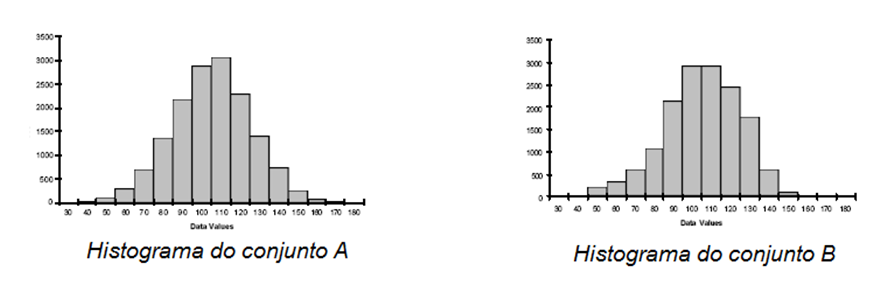
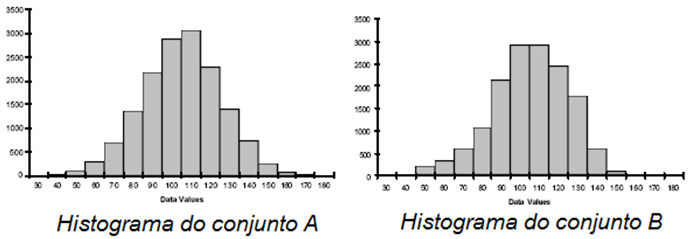
atualização da análise exploratório -slides

diff --git a/slides/aula-geo-SCSMAA-2024.html b/slides/aula-geo-SCSMAA-2024.html
@@ -5,7 +5,7 @@
     <meta charset="utf-8" />
     <meta name="author" content="Alan Rodrigo Panosso alan.panosso@unesp.br" />
     <meta name="date" content="2024-05-12" />
-    <script src="libs/header-attrs-2.28/header-attrs.js"></script>
+    <script src="libs/header-attrs-2.27/header-attrs.js"></script>
     <link href="libs/remark-css-0.0.1/default.css" rel="stylesheet" />
     <link href="libs/remark-css-0.0.1/default-fonts.css" rel="stylesheet" />
   </head>
@@ -46,9 +46,7 @@ class: center, middle, inverse, title-slide
 
 A Geoestatística é uma ferramenta na análise espacial de dados, desempenhando um importante papel na agricultura moderna. Ela combina princípios estatísticos com informações geográficas para fornecer uma compreensão mais profunda da variabilidade espacial de várias variáveis ligadas ao solo, às plantas e mesmo à atmosfera. 
 
-É definida como um ramo da estatística aplicada que lida com a análise e interpretação de dados espaciais. Ela permite a modelagem da variabilidade espacial de fenômenos, descrevendo padrões espaciais, correlações e distribuições geográficas. No contexto agronômico, é uma ferramenta para compreender a heterogeneidade do solo e outros fatores que influenciam nos mais diversos fenômenos associados.
-
-Os métodos da estatística clássica são muito utilizados em Ciências da Terra, principalmente em Agronomia:
+É definida como um ramo da estatística aplicada que lida com a análise e interpretação de dados espaciais. Ela permite a modelagem da variabilidade espacial de fenômenos, descrevendo padrões espaciais, correlações e distribuições geográficas. No contexto agronômico, é uma ferramenta para compreender a heterogeneidade do solo e outros fatores que influenciam nos mais diversos processos associados.
 
 ---
 
@@ -68,7 +66,9 @@ Os métodos da estatística clássica são muito utilizados em Ciências da Terr
 
 ---
 
-### As Hipóteses básicas nas quais a maioria dos métodos da estatística clássica se baseiam são: 
+### Estatística Clássica 
+
+As hipóteses básicas nas quais a maioria dos métodos da estatística clássica se baseiam são: 
 
   + Assumir uma distribuição de frequência;  
 
@@ -76,7 +76,7 @@ Os métodos da estatística clássica são muito utilizados em Ciências da Terr
 
   + Os erros são independentes.  
 
-Considere os dois conjuntos de dados `\(A\)` e `\(B\)` e suas respectivas estatísticas básicas.
+Como exemplo, considere os dois conjuntos de dados `\(A\)` e `\(B\)` e suas respectivas estatísticas básicas.
 
 Estatística |	A	| B 
 :---| :---: | :---:
@@ -93,8 +93,21 @@ Percentil  90	| `\(125,61\)`	| `\(124,72\)`
 
 De acordo com estas evidências os dois conjuntos de dados são bastante semelhantes.
 
----
 
+Estatística |	A	| B 
+:---| :---: | :---:
+n	| `\(15251\)`	| `\(15251\)`
+média | 	`\(100,0\)`	| `\(100,0\)`
+desvio padrão	| `\(20,0\)`	| `\(20,0\)`
+mediana	| `\(100,35\)`	| `\(100,92\)`
+Percentil 10	| `\(73,89\)`	| `\(73,95\)`
+Percentil  90	| `\(125,61\)`	| `\(124,72\)`
+---
+class: center, middel
+![](../img/img-02a.png)
+
+![](../img/img-02b.png)
+---
 ![](../img/img-02.png)
 
 Comparação de seus respectivos gráficos de contornos (padrões espaciais).
@@ -118,25 +131,34 @@ Comparação de seus respectivos gráficos de contornos (padrões espaciais).
 
 ---
 
-## Definição da Geoestatística
+### Geoestatística 
 
-Podemos entender a geoestatística como estudos de fenômenos que variam no espaço e/ou no tempo, ou seja, é uma coleção de técnicas numéricas, que lidam com a caracterização de atributos espaciais, permitindo a descrição da continuidade espacial de fenômenos naturais e fornece adaptações das técnicas da regressão para o entendimento desta continuidade (ISAAKS; SRIVASTAVA, 1989; GOOVAERTS, 1997). 
+Podemos entender a geoestatística como estudos de fenômenos que variam no espaço e/ou no tempo, ou seja, é uma coleção de técnicas numéricas, que lidam com a caracterização de atributos espaciais, permitindo a descrição da continuidade espacial de fenômenos naturais e fornece adaptações das técnicas da regressão para o entendimento desta continuidade (**ISAAKS; SRIVASTAVA, 1989; GOOVAERTS, 1997**). 
 
-Embora ela tenha sua origem na mineração, a geoestatística é uma parte básica de muitas disciplinas científicas incluindo geofísica, geologia, ciências agronômicas, hidrologia e engenharia ambiental. A parte central da geoestatística é a ideia de que **medidas mais próximas tendem a serem mais parecidas do que valores observados em locais distantes**. A geoestatística fornece métodos para quantificar esta correlação espacial e incorporá-la na estimação e na inferência (GOTWAY; HARTFORD).
+Embora ela tenha sua origem na mineração, a geoestatística é uma parte básica de muitas disciplinas científicas ligadas às áreas da geofísica, geologia, ciências agronômicas, hidrologia e engenharia ambiental. 
 
-Um conceito chave na Análise Espacial é a dependência espacial, e sua formulação matemática, a autocorrelação espacial. Estas noções partem do que Waldo Tobler chama de a "primeira lei da geografia": 
+A parte central da geoestatística é a ideia de que **medidas obtidas em locais próximos tendem a ser mais semelhantes entre si do que aquelas realizadas em locais distantes.**. A geoestatística fornece métodos para quantificar esta correlação espacial e incorporá-la na estimação e na inferência (**GOTWAY; HARTFORD, 1996**).
+
+Um conceito chave na denominada "Análise Espacial" é a dependência espacial, e sua formulação matemática, a autocorrelação espacial. Estas noções partem do que Waldo R. Tobler chama de a "primeira lei da geografia": 
 
   &gt; **"todas as coisas são parecidas, mas coisas mais próximas se parecem mais que coisas mais distantes"**.
 
 ---
 
-### O variograma 
+### O [semi]variograma 
 
 O variograma (ou semivariograma) é uma estatística descritiva quantitativa que pode ser representada graficamente de tal forma que caracteriza a continuidade espacial de um conjunto de dados.  
 
 ![](../img/img-03.png)
 
 Em outras palavras, a análise variográfica caracteriza a (auto)correlação espacial.
+
+---
+![](../img/img-02.png)
+
+![](../img/img-03.png)
+
+
 
 ---
 
@@ -148,9 +170,9 @@ Estudo de caso desenvolvido em áreas pertencentes à Fazenda de Ensino, Pesquis
 
 ---
 
-As áreas eram originalmente cobertas por vegetação nativa do Cerrado até a década de 1970, quando, em 1978, foram desmatadas e passaram a ser usadas para culturas anuais, como milho, soja, algodão e adubos verdes, até 1986. Durante os anos de 1986-1987, as áreas foram convertidas para os seguintes usos: floresta plantada de eucalipto (EU) e sistema silvipastoril (SI), uma floresta plantada de aroeira-vermelha (*Myracrodruon urundeuva*) em consórcio com capim braquiária (*Brachiaria decumbens*). A área de EU (*Eucalyptus camaldulensis*) foi formada em 26 de abril de 1986 e a área de SI foi formada em dezembro de 1987.
+As áreas eram originalmente cobertas por vegetação nativa do Cerrado até a década de `\(1970\)`, quando, em `\(1978\)`, foram desmatadas e passaram a ser usadas para culturas anuais, como milho, soja, algodão e adubos verdes, até `\(1986\)`. Durante os anos de `\(1986-1987\)`, as áreas foram convertidas para os seguintes usos: floresta plantada de eucalipto (EU) e sistema silvipastoril (SI), uma floresta plantada de aroeira-vermelha (*Myracrodruon urundeuva*) em consórcio com capim braquiária (*Brachiaria decumbens*). A área de EU (*Eucalyptus camaldulensis*) foi formada em 26 de abril de `\(1986\)` e a área de SI foi formada em dezembro de `\(1987\)`.
 
-No momento da realização das avaliações de emissão de CO~2~ do solo (FCO2) as áreas já haviam passado por mais de `\(30\)` anos de mudança de conversão. As determinações foram realizadas no período de 03 de fevereiro a 17 de junho de 2017, Na imagem abaixo são apresentados os dias de avaliação e os valores de precipitação (chuva em mm) ocorridas no período. 
+No momento da realização das avaliações de emissão de `\(CO_2\)` do solo (FCO2) as áreas já haviam passado por mais de `\(30\)` anos de mudança de conversão. As determinações foram realizadas no período de `\(03\)` de fevereiro a `\(17\)` de junho de `\(2017\)`, Na imagem abaixo são apresentados os dias de avaliação e os valores de precipitação (chuva em mm) ocorridas no período. 
 
 ![](../img/img-06.png)
 ---
@@ -209,27 +231,31 @@ Selecione **"Extrair tudo..."** e siga as instruções.
 &lt;img src="../img/img-32.png" width="70%" style="display: block; margin: auto;" /&gt;
 
 ---
-## Análise Exploratória 
+### Análise Exploratória 
 
 Um estudo clássico de geoestatística normalmente começa com uma descrição detalhada da análise exploratória dos dados (mapas espaciais, histogramas). 
 
-Para isso vamos realizas análise descritiva da variável teor de matéria orgânica do solo na área de eucalipto. ([OLIVEIRA, 2018](https://repositorio.unesp.br/bitstreams/a13ca7aa-da94-4701-89aa-2bd2c8b4442d/download) )
+Para isso vamos realizas análise descritiva da variável teor de matéria orgânica do solo na área de eucalipto, dados referentes ao trabalho de mestrado de [OLIVEIRA (2018)](https://repositorio.unesp.br/bitstreams/a13ca7aa-da94-4701-89aa-2bd2c8b4442d/download), denominado:
+
+**"VARIABILIDADE ESPACIAL DA EMISSÃO DE `\(CO_2\)` E ESTOQUE DE CARBONO DO SOLO EM ÁREAS DE EUCALIPTO E SISTEMA SILVIPASTORIL"**
 
 ---
 
-## Premissas ou pressupostos da análise geoestatística.
+### Premissas da análise geoestatística
 
-A análise geoestatística é baseada na teoria das **variáveis regionalizadas**, que é uma função numérica com distribuição espacial, que varia de um ponto a outro com continuidade aparente, mas cujas variações não podem ser representadas por uma função matemática simples (MATHERON, 1963). 
+A análise geoestatística é baseada na teoria das **variáveis regionalizadas**, que é uma função numérica com distribuição espacial, que varia de um ponto a outro com continuidade aparente, mas cujas variações não podem ser representadas por uma função matemática simples (**MATHERON, 1963**). 
 
 Uma variável regionalizada é uma variável aleatória que assume diferentes valores, de acordo com a sua posição na área de estudo.
 
 Se todos os valores de uma variável regionalizada forem considerados em todos os pontos dentro de uma área amostral, a variável regionalizada é apenas uma de infinitas variáveis aleatórias. 
 
-Esse conjunto é chamado de **função aleatória (FA)** e é simbolizado por `\(Z(x_i)\)`. Na prática, quando retiramos uma amostra de solo em local com coordenadas definidas, temos apenas uma única realização da função aleatória (FA). 
+Esse conjunto é chamado de **função aleatória `\((FA)\)`** e é simbolizado por `\(Z(x_i)\)`. Na prática, quando retiramos uma amostra de solo em local com coordenadas definidas, temos apenas uma única realização da `\(FA\)`. 
 
-Para estimar valores em locais não amostrados, deve-se introduzir as restrições de **estacionaridade estatística**. A existência de estacionaridade permite que o experimento possa ser repetido mesmo que as amostras sejam coletadas em pontos diferentes, pois elas pertencem à mesma população, com os mesmos momentos estatísticos (VIEIRA, 2000).
+Para estimar valores em locais não amostrados, deve-se introduzir as restrições de **estacionaridade estatística**. A existência de estacionaridade permite que o experimento possa ser repetido mesmo que as amostras sejam coletadas em pontos diferentes, pois elas pertencem à mesma população, com os mesmos momentos estatísticos (**VIEIRA, 2000**).
 
 ---
+
+### Principais pressupostos
 
 Em resumo, temos que os métodos geoestatísticos são ótimos quando os dados são:
 	
